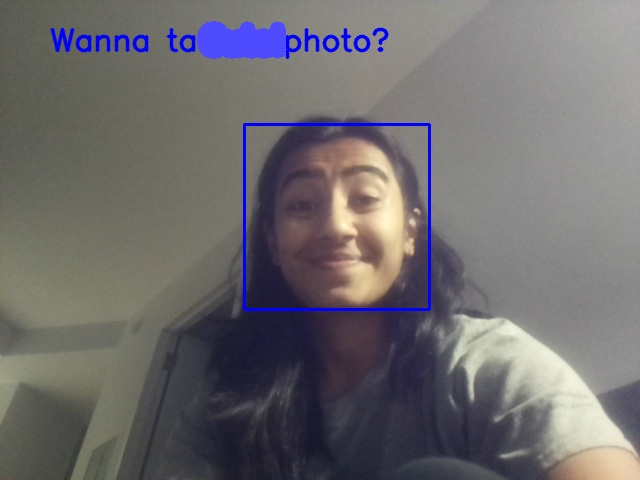
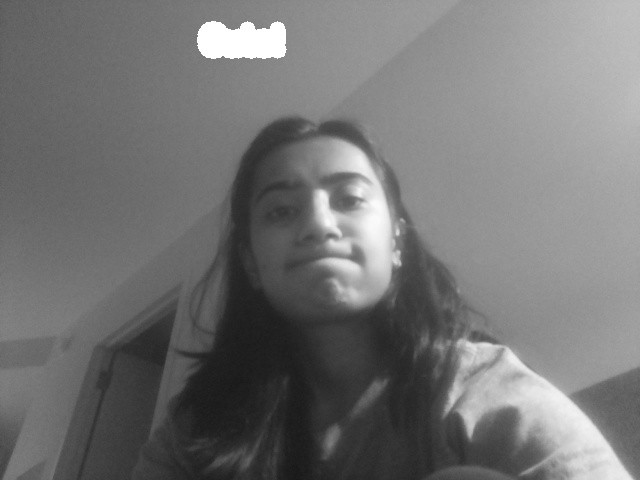
changes

diff --git a/Lab 5/face-detection/face-detection.py b/Lab 5/face-detection/face-detection.py
@@ -48,9 +48,9 @@ while(True):
    if webCam:
       ret, img = cap.read()
 
-   copy = img
-
    gray = cv2.cvtColor(img, cv2.COLOR_BGR2GRAY)
+
+   copy = gray
 
    faces = face_cascade.detectMultiScale(gray, 1.3, 5)
    for (x,y,w,h) in faces:
